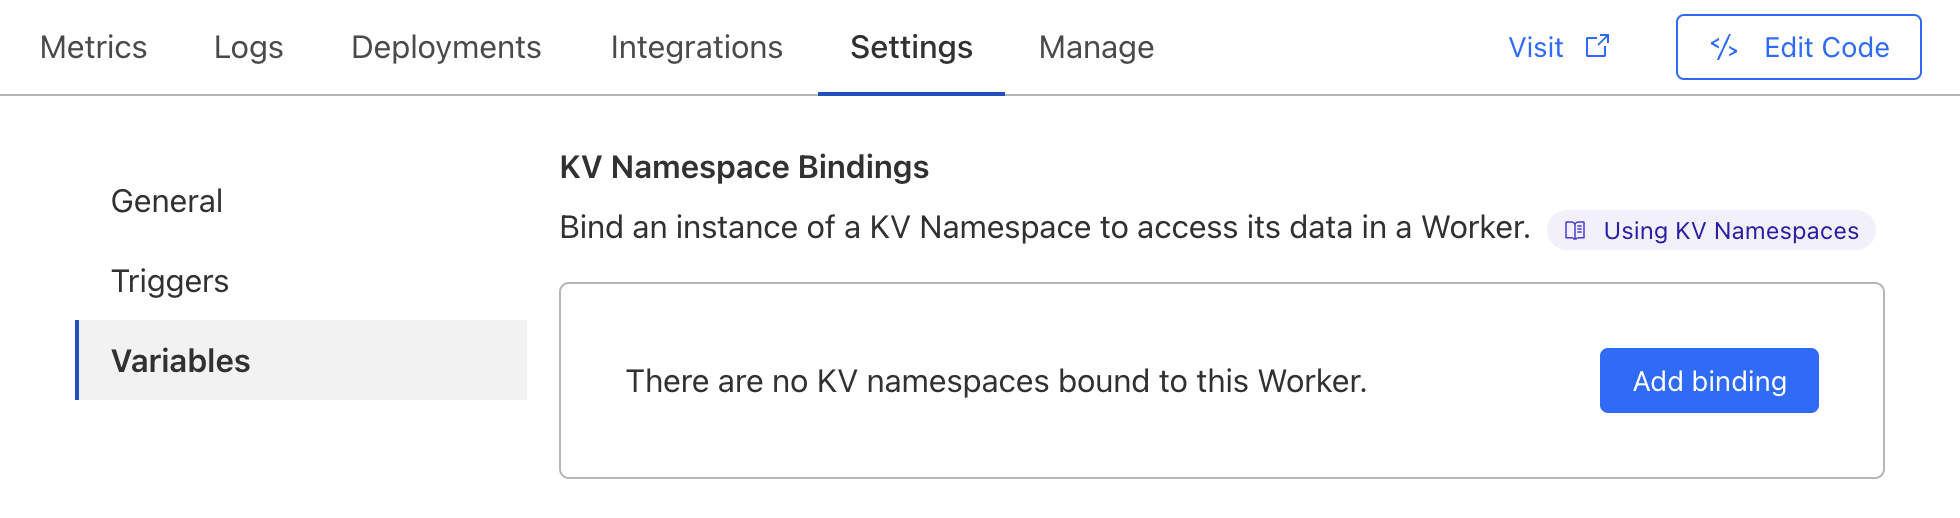
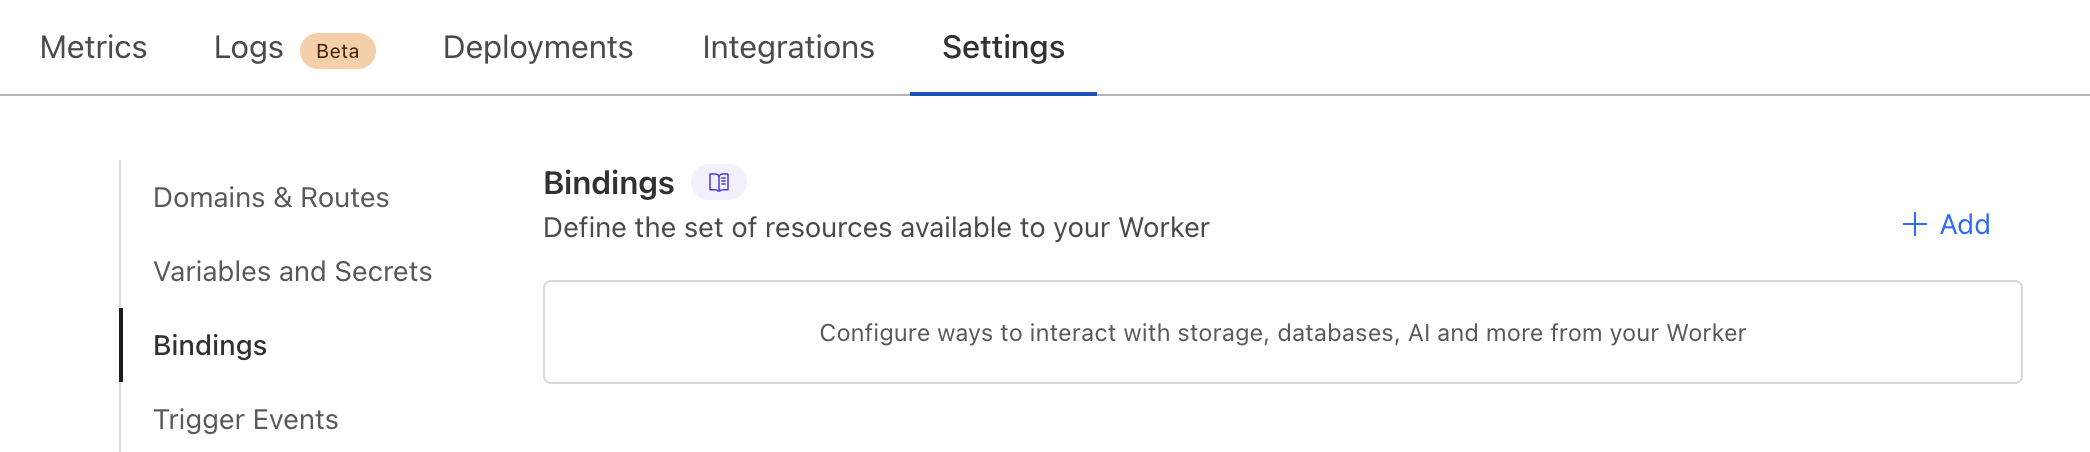
update CF short link based on UI changes

diff --git a/content/post/short-links-cloudflare-kv/index.md b/content/post/short-links-cloudflare-kv/index.md
@@ -69,13 +69,17 @@ Give the namespace a name, and click **Add**.
 
 Now navigate back to the Worker (_Workers & Pages_ > _Overview_ > _{Worker Name}_ ).
 
-On the _Settings_ tab, go to _Variables_, scroll down to _KV Namespace Bindings_, and click **Add binding**.
+On the _Settings_ tab, go to _Bindings_, and click **+ Add**.
 
 {{<screenshot image="cfaka-6-variablesmenu.png" alt="A screenshot of the Cloudflare dashboard showing the Settings menu for the worker with a left menu with Variables selected and a section showing KV Namespace Bindings and a Add binding button">}}
 
-Add a variable name and select the KV Namespace that you just created. Next to the **Deploy** button, click the downwards arrow, and click the **Save** menu item, then the **Save** button.
+In the slideout menu, click **KV namespace**.
 
-{{<screenshot image="cfaka-7-mapsave.png" alt="A screenshot of the Cloudflare dashboard showing the KV Namespace Bindings configuration with an input field for Variable name, with the text redirects, and a dropdown field named KV Namespace with aka-redirect selected. There is a Cancel button and a Deplot button with an arrow which is selected, and the Save option is selected from the menu">}}
+{{<screenshot image="cfaka-6a-slide-out.png" width="40%" alt="A screenshot of the Cloudflare dashboard slideout menu showing a header called Add a resource binding and an option called KV Namespace highlighted">}}
+
+Add a variable name (ex: `redirects`) and select the KV namespace that you just created. Next to the **Deploy** button, click the downwards arrow, and click the **Save version** menu item.
+
+{{<screenshot image="cfaka-7-mapsave.png" width="40%" alt="A screenshot of the Cloudflare dashboard showing the KV Namespace Bindings configuration with an input field for Variable name, with the text redirects, and a dropdown field named KV Namespace with aka-redirect selected. There is a Cancel button and a Deplot button with an arrow which is selected, and the Save option is selected from the menu">}}
 
 ### 3: Set up the redirection code
 
@@ -132,11 +136,15 @@ Hit enter, and you should be redirected to the destination you defined!
 
 Lastly, you'll want to set use your own domain for the Worker.
 
-In the Worker, go to _Settings_ > _Triggers_ and click the **Add Custom Domain** button.
+In the Worker, go to _Settings_ > _Domains & Routes_ and click **+ Add**.
 
-Add the domain, verify the DNS record looks OK, then click **Add Custom Domain**.
+{{<screenshot image="cfaka-11a-domain.png" alt="A screenshot of the Cloudflare dashboard showing the settings horizontal tab, and the vertical Domains & Routes menu item with a button showing + Add">}}
 
-{{<screenshot image="cfaka-11-domain.png" alt="A screenshot of the Cloudflare dashboard showing the Add Custom Domain section with an input field named Domain with the value aka.timcappalli.me and a table previewing the DNS entry, a Cancel button and a Add Custom Domain button">}}
+In the slideout menu, click **Custom domain**, enter your domain, and click **Add domain**.
+
+{{<screenshot image="cfaka-11b-domain.png" width="40%" alt="A screenshot of the Cloudflare dashboard showing the settings horizontal tab, and the vertical Domains & Routes menu item with a button showing + Add">}}
+
+If you're not using Cloudflare DNS, add the provided DNS record to your name server.
 
 Wait a few minutes and then it should be live!
 
